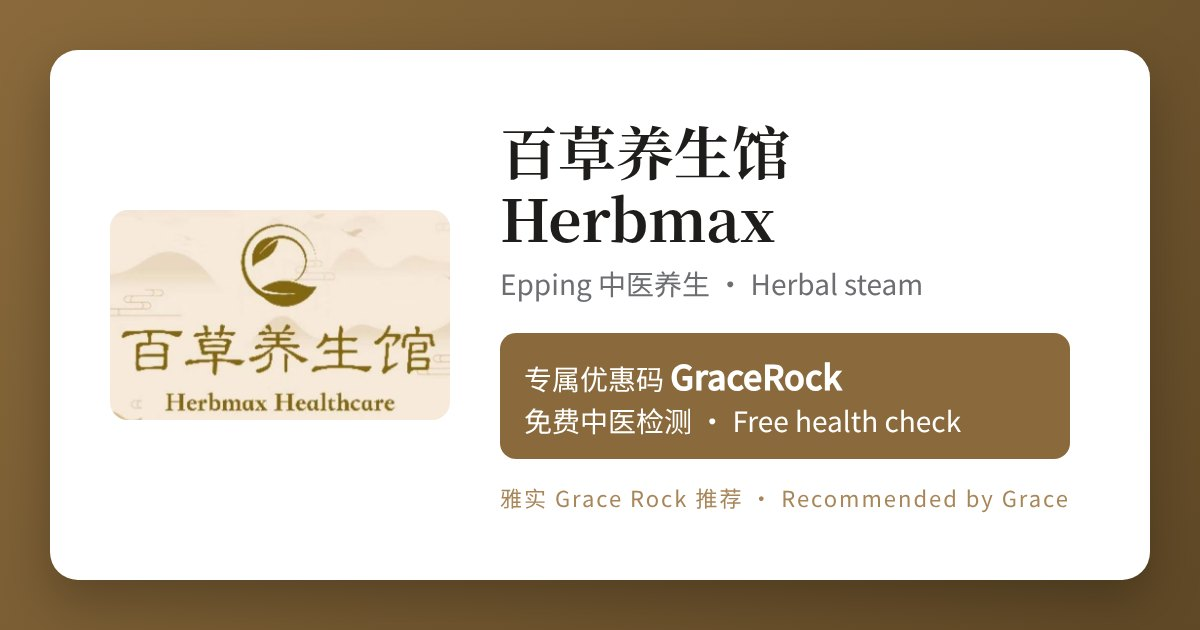
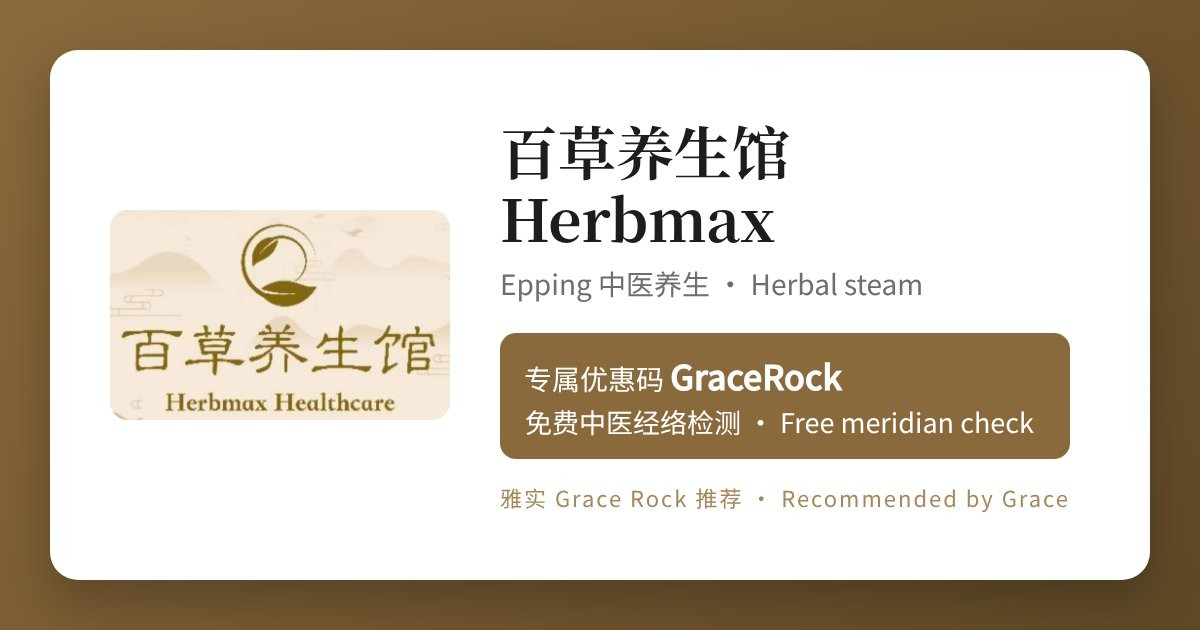
Herbmax share image: 中医经络检测
Claude-Session: https://claude.ai/code/session_0184zThXmo83xLtuRyd9kJgT

Changed region(s): [[0.4317, 0.6333, 0.8633, 0.6937]]

diff --git a/preview/partners/herbmax.html b/preview/partners/herbmax.html
@@ -12,8 +12,8 @@
 <meta property="og:title" content="百草养生馆 Herbmax · 雅实 Grace Rock 推荐">
 <meta property="og:description" content="Epping 中医养生、中药熏蒸。到店出示专属优惠码 GraceRock，免费中医经络检测一次。">
 <meta property="og:url" content="https://gracerock.com.au/preview/partners/herbmax.html">
-<meta property="og:image" content="https://gracerock.com.au/preview/assets/og-herbmax.jpg">
-<meta property="og:image:secure_url" content="https://gracerock.com.au/preview/assets/og-herbmax.jpg">
+<meta property="og:image" content="https://gracerock.com.au/preview/assets/og-herbmax.jpg?v=2">
+<meta property="og:image:secure_url" content="https://gracerock.com.au/preview/assets/og-herbmax.jpg?v=2">
 <meta property="og:image:type" content="image/jpeg">
 <meta property="og:image:width" content="1200">
 <meta property="og:image:height" content="630">

diff --git a/preview/partners/herbmax-en.html b/preview/partners/herbmax-en.html
@@ -12,8 +12,8 @@
 <meta property="og:title" content="Herbmax Healthcare · Recommended by Grace Rock">
 <meta property="og:description" content="Chinese wellness and herbal steam in Epping. Use promo code GraceRock for a free TCM meridian check.">
 <meta property="og:url" content="https://gracerock.com.au/preview/partners/herbmax-en.html">
-<meta property="og:image" content="https://gracerock.com.au/preview/assets/og-herbmax.jpg">
-<meta property="og:image:secure_url" content="https://gracerock.com.au/preview/assets/og-herbmax.jpg">
+<meta property="og:image" content="https://gracerock.com.au/preview/assets/og-herbmax.jpg?v=2">
+<meta property="og:image:secure_url" content="https://gracerock.com.au/preview/assets/og-herbmax.jpg?v=2">
 <meta property="og:image:type" content="image/jpeg">
 <meta property="og:image:width" content="1200">
 <meta property="og:image:height" content="630">
